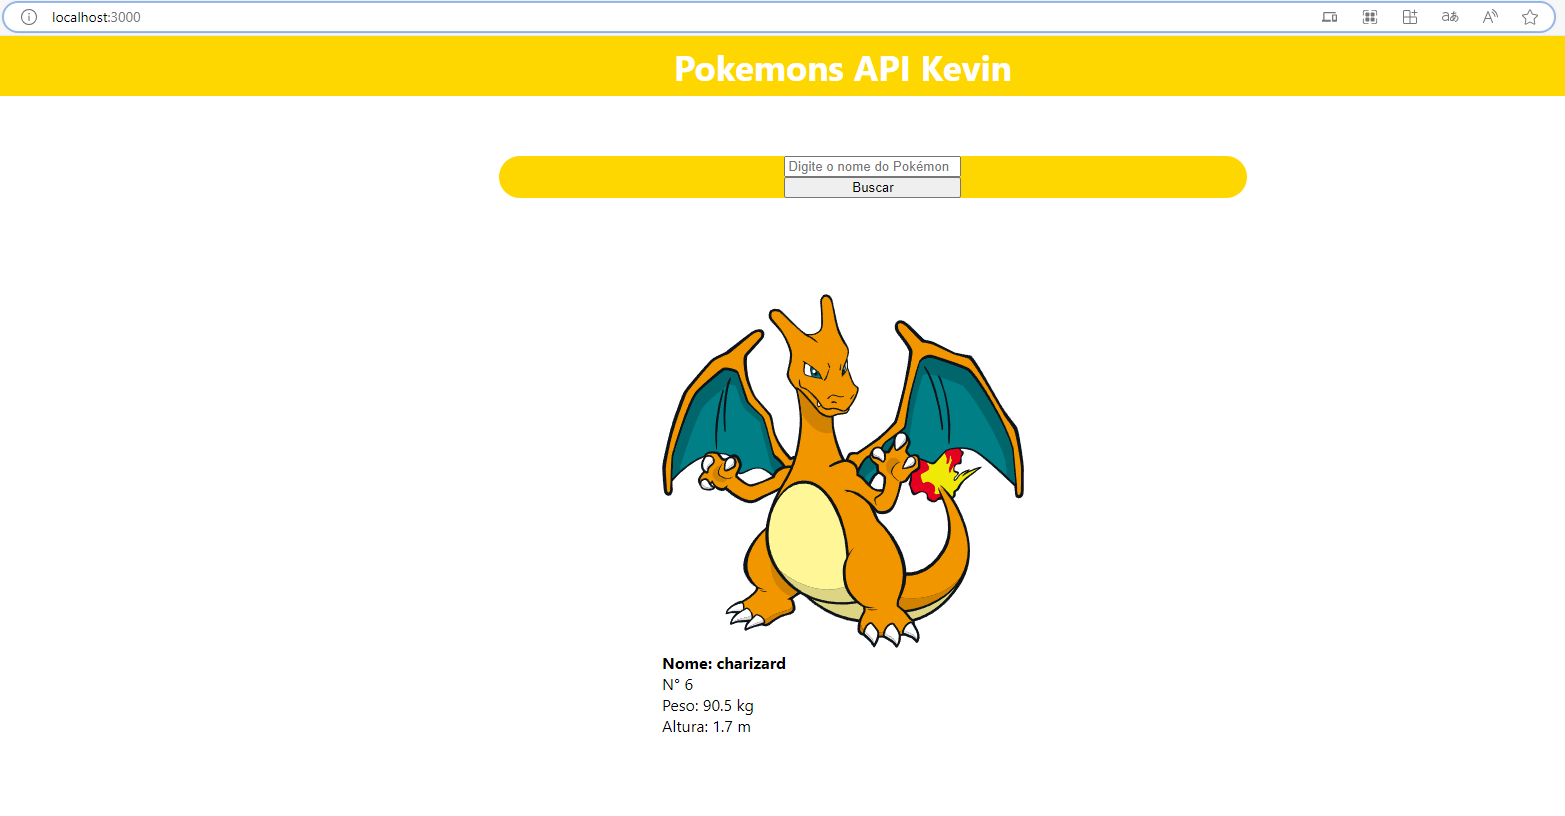
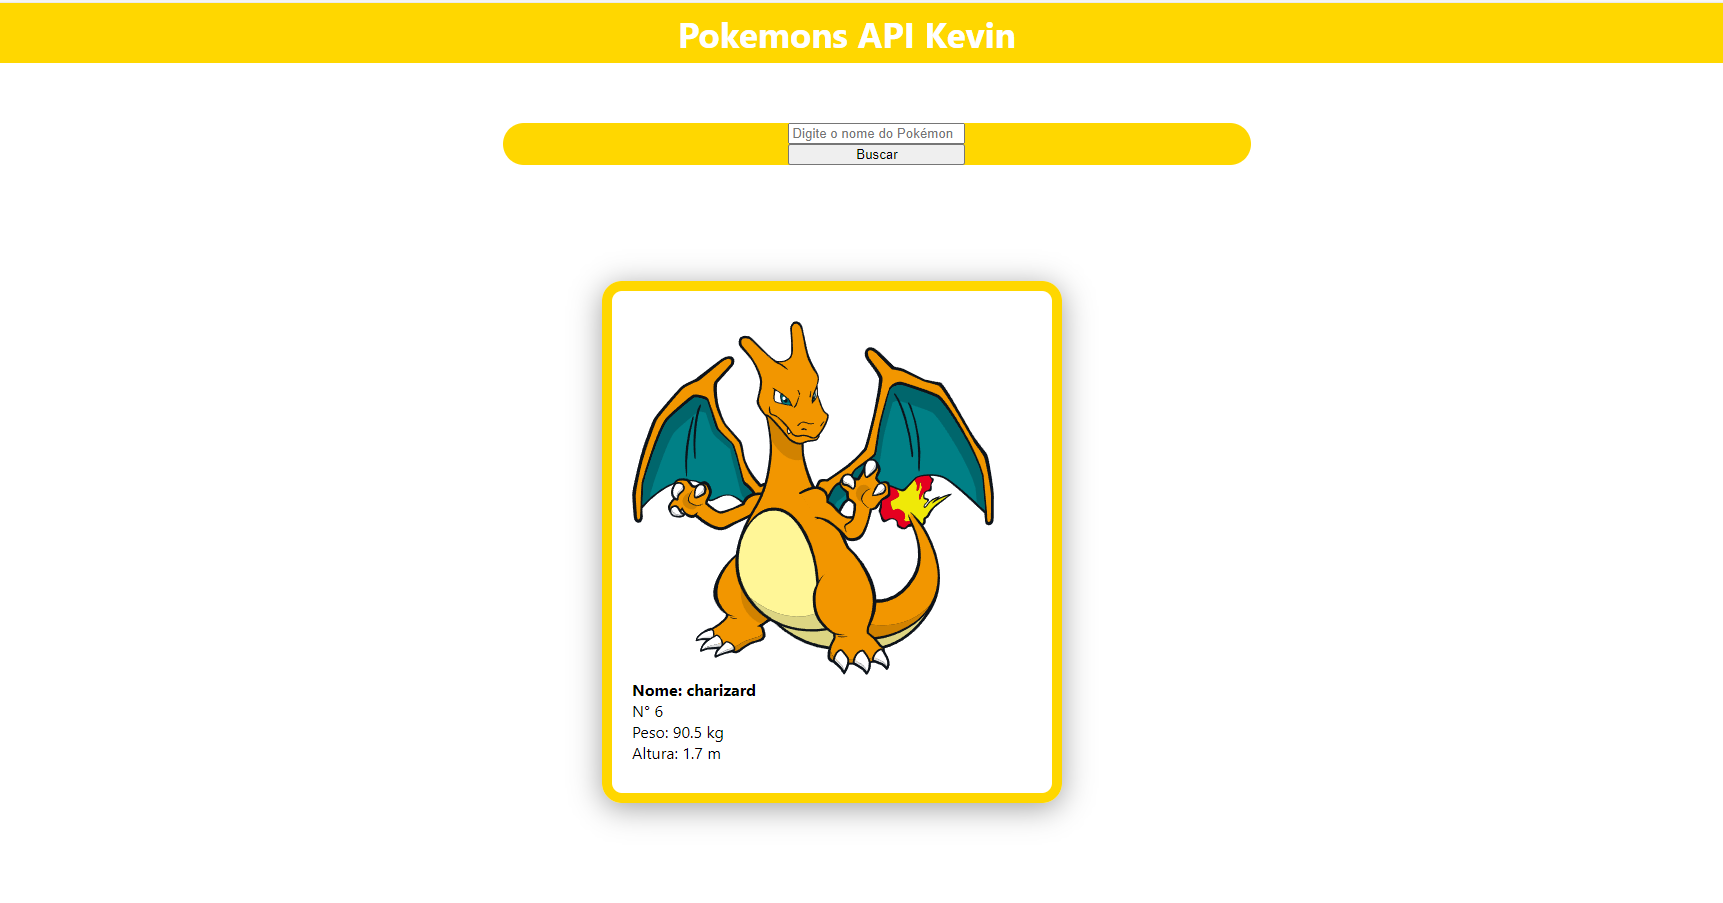
ajuste

Changed region(s): [[0.0, 0.0, 1.0, 0.2451], [0.3374, 0.3064, 0.6748, 0.9191]]

diff --git a/src/App.js b/src/App.js
@@ -47,6 +47,8 @@ function App() {
       <p></p>
       <p></p>
 
+      <div className='card'>
+        
       <div>
         <img
           src={`https://raw.githubusercontent.com/PokeAPI/sprites/master/sprites/pokemon/other/dream-world/${pokemon.id}.svg`}
@@ -60,6 +62,9 @@ function App() {
         <div>Peso: {pokemon.weight / 10} kg</div>
         <div>Altura: {pokemon.height / 10} m</div>
       </div>
+
+        </div>
+
     </div>
   );
 }

diff --git a/src/style.css b/src/style.css
@@ -39,3 +39,16 @@ form {
     margin-top: 60px;
     margin-left: 60px
 }
+.card {
+    display: flexbox;
+    border: solid 10px gold;
+    position: relative;
+    width: 400px;
+    margin-top: 20px;
+    margin-left: -30px;
+    padding: 30px 20px;
+    box-shadow: 0 5px 30px rgba(0, 0, 0, 0.377);
+    border-radius: 20px;
+    background: radial-gradient(#000);
+     
+  }
